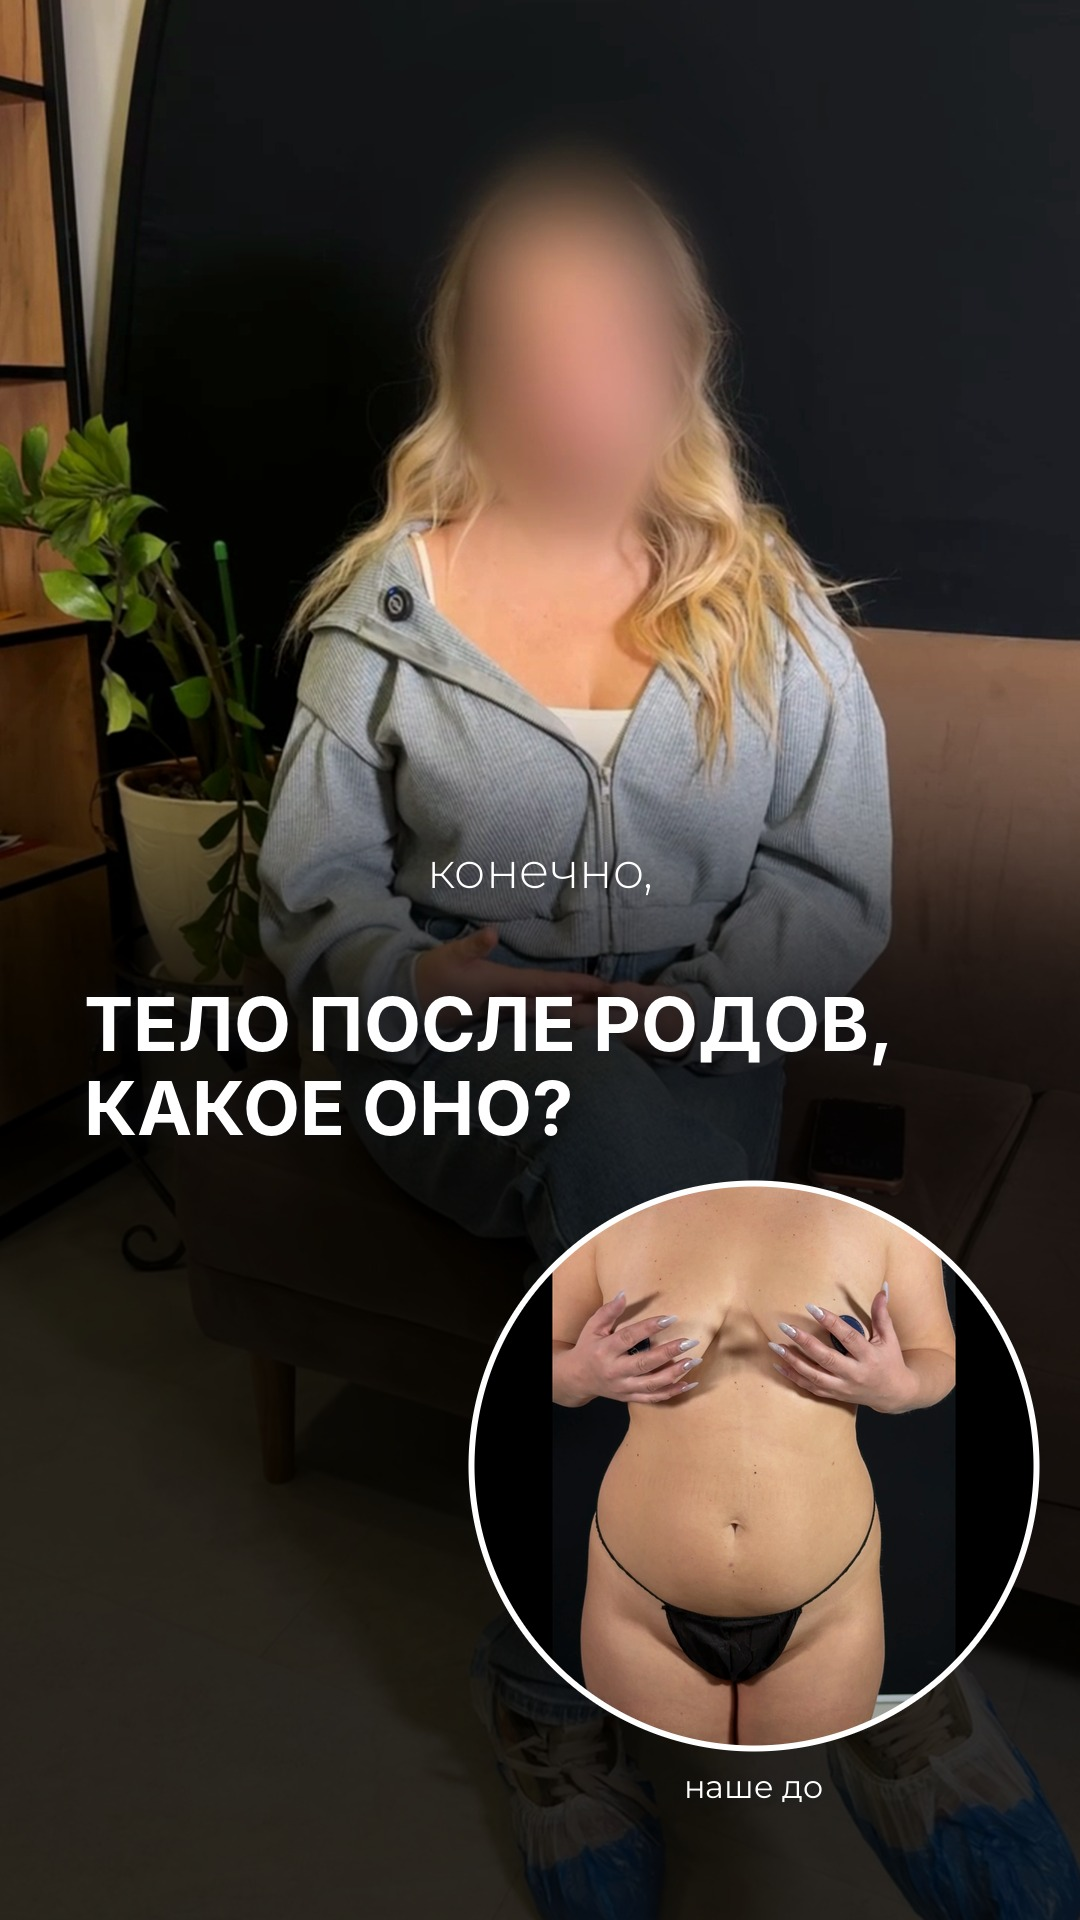
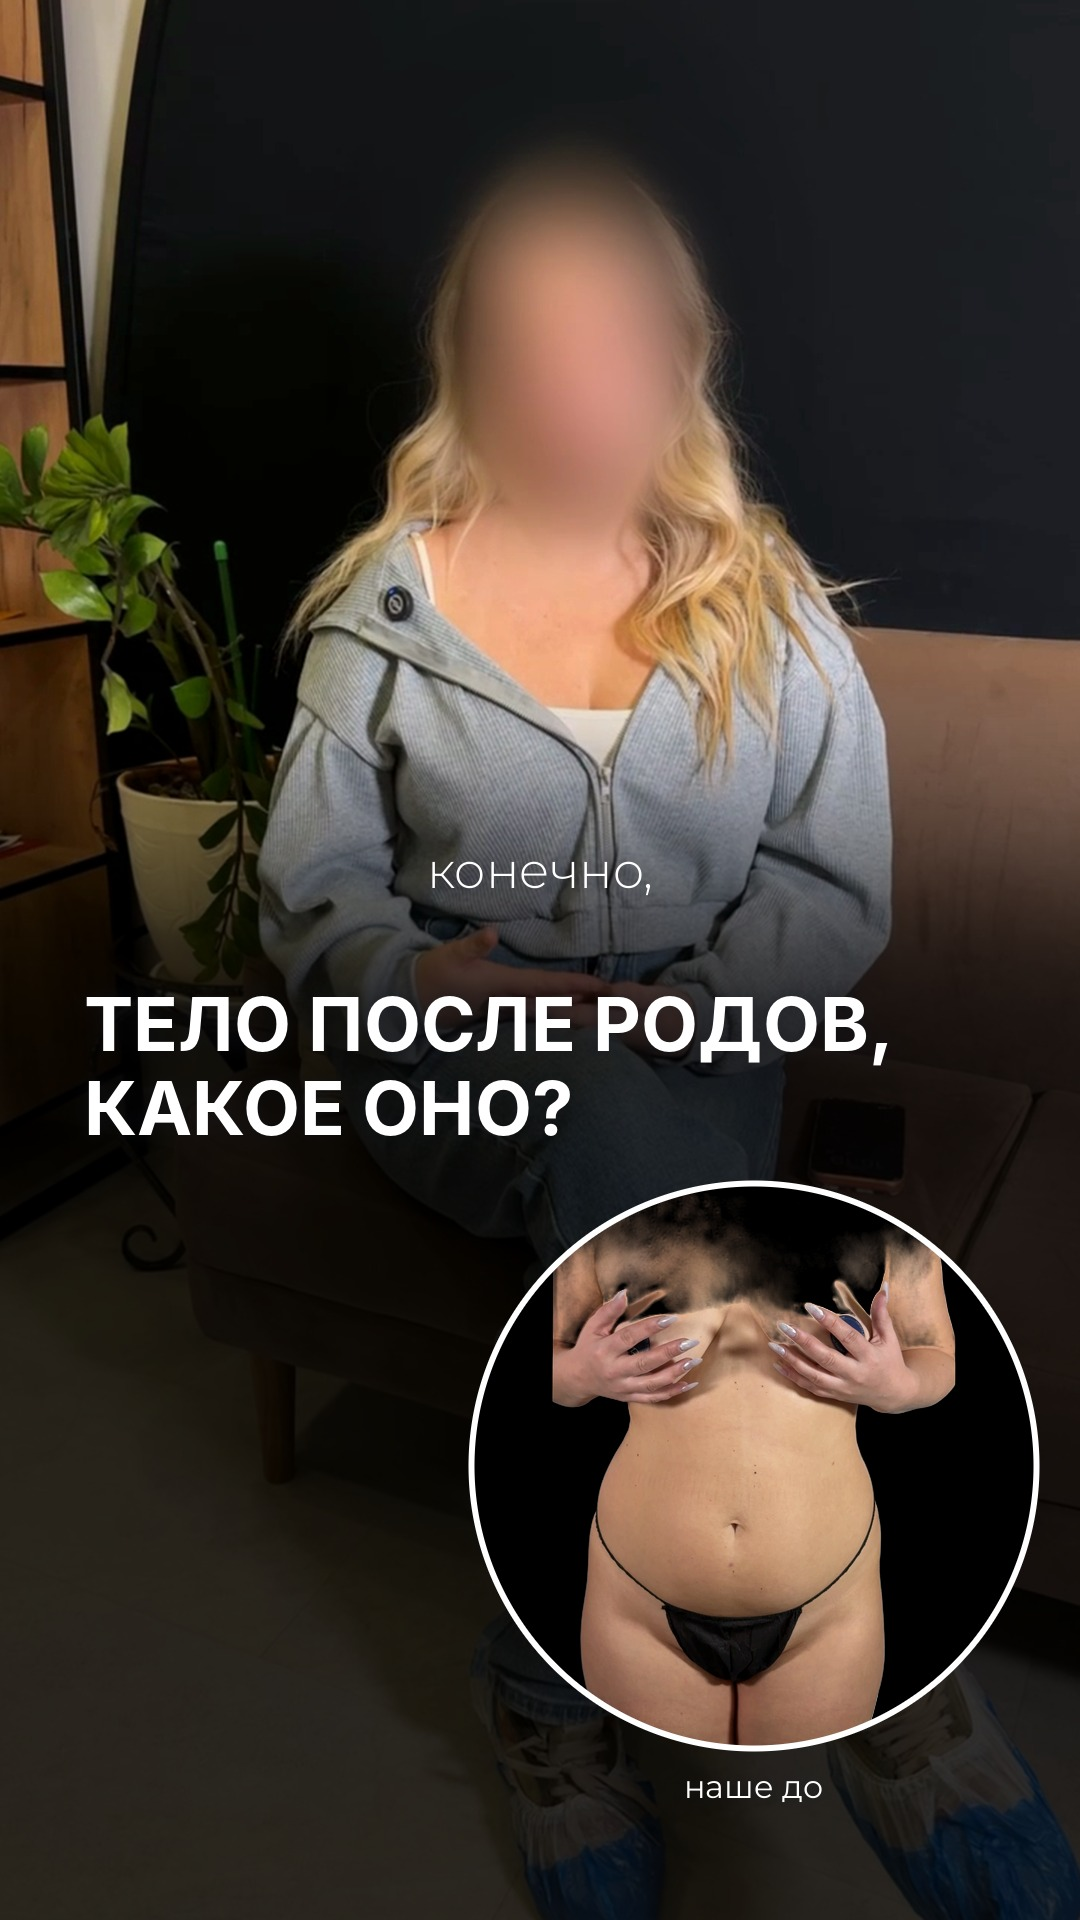
Interview stories: arrows start outside the labels, both ДО photos side by side, background-free circle, photo stories as JPG
Claude-Session: https://claude.ai/code/session_01DoBoRz2HUe4yvMBz6dWv4L

Changed region(s): [[0.4889, 0.5938, 0.8861, 0.7188], [0.7944, 0.875, 0.8556, 0.9062]]

diff --git a/tools/stories_implants_interview.py b/tools/stories_implants_interview.py
@@ -514,9 +514,22 @@ class VideoCircle:
                             "-vf", f"{vf},scale={d}:{d}:flags=lanczos,fps={FPS}", "-f", "rawvideo",
                             "-pix_fmt", "rgb24", "-"], capture_output=True, check=True).stdout
         self.frames = np.frombuffer(p, np.uint8).reshape(-1, d, d, 3)
+        if crop is None: self.frames = self.cut_bg(name, a, b, d)
         D = d + 2 * ring; yy, xx = np.mgrid[:D, :D]; r = np.hypot(xx - D / 2 + 0.5, yy - D / 2 + 0.5)
         self.ring_a = np.clip(D / 2 - r, 0, 1)[..., None].astype(np.float32)
         self.in_a = np.clip(d / 2 - np.hypot(xx[:d, :d] - d / 2 + 0.5, yy[:d, :d] - d / 2 + 0.5), 0, 1)[..., None].astype(np.float32)
+
+    def cut_bg(self, name, a, b, d):
+        """remove the backdrop from every frame (rembg isnet), body on pure black; cached next to the sources"""
+        cache = os.path.join(SRC, "cut", f"{name}_{a}_{b}_{d}.npy")
+        if os.path.exists(cache): return np.load(cache)
+        from rembg import remove, new_session
+        sess = new_session("isnet-general-use"); out = []
+        for f in self.frames:
+            m = np.asarray(remove(Image.fromarray(f), session=sess, only_mask=True), np.float32)[..., None] / 255
+            m = np.clip((m - 0.12) / 0.3, 0, 1)                   # arms/hands fully opaque, soft edge kept
+            out.append((f * m).astype(np.uint8))
+        out = np.stack(out); np.save(cache, out); return out
 
     def draw(self, fr, t):
         i = int(t * FPS) % len(self.frames)
@@ -576,6 +589,15 @@ def pill(im, text, cx, cy, size=23):
     im.alpha_composite(lay); return (x0, y0, x0 + w, y0 + h)
 
 
+def arrow_from(im, box, tgt, gap=7, **kw):
+    """short arrow that starts just outside a label box (never inside the text) and ends at the target"""
+    x0, y0, x1, y1 = box; tx, ty = tgt
+    cx, cy = min(max(tx, x0), x1), min(max(ty, y0), y1)          # nearest point of the box
+    if (cx, cy) == (tx, ty): return im
+    v = np.array([tx - cx, ty - cy], float); v /= np.linalg.norm(v)
+    return arrow_thin(im, (cx + v[0] * gap, cy + v[1] * gap), tgt, **kw)
+
+
 def black_fade(top, length=320, a=0.78):
     """light black darkening from `top` down to the bottom (stretched, no tint)"""
     return vgrad(top - length, top + 60, 0.0, a)
@@ -621,34 +643,30 @@ def s1():
 
 
 def before_cards():
-    """«наше до»: front (big, small white arrows to the problem zones, labels on the right) + profile (no arrows)"""
-    fw, fh = 520, 693
-    front = load_img("IMG_6325.heic").crop((158, 230, 158 + 1700, 230 + 2267)).resize((fw, fh), Image.LANCZOS)
-    prof = load_img("IMG_6340.heic").crop((259, 270, 259 + 1700, 270 + 2267)).resize((300, 400), Image.LANCZOS)
-    return card(front, fw, fh), card(prof, 300, 400)
+    """«наше до»: front and profile, same size, side by side"""
+    w, h = 490, 653
+    front = load_img("IMG_6325.heic").crop((158, 230, 158 + 1700, 230 + 2267)).resize((w, h), Image.LANCZOS)
+    prof = load_img("IMG_6340.heic").crop((259, 270, 259 + 1700, 270 + 2267)).resize((w, h), Image.LANCZOS)
+    return card(front, w, h), card(prof, w, h)
 
 
 def s2():
     front, prof = before_cards()
-    y = 1150; fx = 40
+    y = 1170; fx = 40
     lay = Image.new("RGBA", (W, H), (0, 0, 0, 0))
-    lay.alpha_composite(front, (fx, y)); lay.alpha_composite(prof, (W - 40 - prof.width, y + front.height - prof.height))
-    sc = 520 / 1700
+    lay.alpha_composite(front, (fx, y)); lay.alpha_composite(prof, (W - 40 - prof.width, y))
+    sc = 490 / 1700
     def P(sx, sy): return (fx + 4 + (sx - 158) * sc, y + 4 + (sy - 230) * sc)
-    # problems on the front view (source px of IMG_6325): empty upper pole, sagging, lost volume
-    probs = [(("пустой", "верхний полюс"), P(1400, 860)), (("опущение", "груди"), P(1470, 1265)), (("потеря объёма", "после ГВ"), P(1590, 1040))]
-    # short arrows, labels spread over different zones (pills sit right next to what they name)
-    for text, (cx, cy), p0, tgt in [("пустой верхний полюс", (300, y + 150), (330, y + 168), P(1380, 860)),
-                                    ("опущение груди", (175, y + 445), (185, y + 428), P(690, 1255)),
-                                    ("потеря объёма", (445, y + 420), (455, y + 402), P(1545, 1080))]:
-        pill(lay, text, cx, cy)
-        arrow_thin(lay, p0, tgt, width=3, head=12)
-    label_lines(lay, ["наше до"], fx + front.width // 2, y - 14, size=30, wght=400, anchor="ms")
+    for text, (cx, cy), tgt in [("пустой верхний полюс", (290, y + 118), P(1380, 870)),
+                                ("опущение груди", (175, y + 372), P(690, 1262)),
+                                ("потеря объёма", (425, y + 335), P(1545, 1090))]:
+        arrow_from(lay, pill(lay, text, cx, cy, size=22), tgt, width=3, head=11)
+    label_lines(lay, ["наше до"], W // 2, y - 14, size=30, wght=400, anchor="ms")
     items = [Sprite(lay.crop(lay.getbbox()), *lay.getbbox()[:2], 0, dy=0)]
     def extra(col):
         col.body("Должен внутри случиться импульс «я готова»", 0, size=36, wght=500, gap=0)
     interview(2, "dolgo_reshaetes", "int2.mp4", "КОГДА ВЫ ДОЛГО РЕШАЕТЕСЬ НА ОПЕРАЦИЮ, ЭТО НОРМАЛЬНО", extra,
-              bottom=1100, align="center", sub_y=780, more=items, head_size=48)
+              bottom=1110, align="center", sub_y=790, more=items, head_size=48)
 
 
 def s3():
@@ -715,11 +733,10 @@ def s6():
     a = np.asarray(bg, np.float32); k = np.clip((np.arange(H, dtype=np.float32) - 30) / 40, 0, 1)[:, None, None]
     bg = Image.fromarray((a * k).astype(np.uint8)).convert("RGBA")          # clean straight cut under the chin
     def P(x, y): return (x * s + ox, y * s + oy)
-    for text, (cx, cy), p0, tgt in [("наполненный верхний полюс", (450, 235), (455, 255), P(560, 640)),
-                                    ("увеличенный объём", (900, 640), (915, 620), P(1150, 860)),
-                                    ("округлая форма", (470, 720), (478, 700), P(590, 985))]:
-        pill(bg, text, cx, cy, size=24)
-        arrow_thin(bg, p0, tgt, width=3, head=12)
+    for text, (cx, cy), tgt in [("наполненный верхний полюс", (470, 268), P(560, 640)),
+                                ("увеличенный объём", (930, 585), P(1150, 860)),
+                                ("округлая форма", (470, 675), P(590, 985))]:
+        arrow_from(bg, pill(bg, text, cx, cy, size=24), tgt, width=3, head=11)
     col = Column(0, align="center")
     col.head("РЕЗУЛЬТАТ: 4,5 МЕСЯЦА ПОСЛЕ ОПЕРАЦИИ", 0, size=46, gap=10)
     col.body("увеличение груди имплантами", 0, size=34, wght=400, gap=0)
@@ -817,6 +834,13 @@ def s13():
     render(13, "chto_ostanavlivaet", 12.0, clip_bg(c), col.items, shade=black_fade(col.items[0].y + 30, 300, 0.7))
 
 
+PHOTO_ONLY = {6, 9, 10, 11}        # static stories are delivered as JPG, not video
+
+
 STORIES = {k + 1: f for k, f in enumerate([s1, s2, s3, s4, s5, s6, s7, s8, s9, s10, s11, s12, s13])}
 for k, fn in STORIES.items():
-    if not ONLY or k in ONLY: fn()
+    if not ONLY or k in ONLY:
+        fn()
+        if k in PHOTO_ONLY:
+            for f in os.listdir(OUT):
+                if f.startswith(f"{k:02d}_") and f.endswith(".mp4"): os.remove(os.path.join(OUT, f))

diff --git a/stories_implants_interview/README.md b/stories_implants_interview/README.md
@@ -1,13 +1,13 @@
 # Сторис: история пациентки — увеличение груди имплантами (4,5 месяца после)
 
-13 сторис 1080×1920. Рядом с каждым `.mp4` лежит `.jpg`-кадр.
+13 сторис 1080×1920. Видео-сторис — `.mp4` (рядом `.jpg`-кадр); сторис с фото (6, 9, 10, 11) — только `.jpg`.
 Рендер: `python3 tools/stories_implants_interview.py <папка с drive/ и asr/> stories_implants_interview [номера]`.
 Нарезки интервью с размытым лицом: `tools/face_blur_track.py` (отрезки — в начале скрипта).
 
 | № | Файл | Фон | Звук | Стикер в Instagram |
 |---|------|-----|------|--------------------|
-| 1 | 01_telo_posle_rodov | интервью + «наше до» (видео) в большом кружке справа внизу | голос + субтитры по слову | **Опрос** слева внизу: «У кого такие же изменения, как и у моей пациентки?» — Моя история.. / Частично про меня |
-| 2 | 02_dolgo_reshaetes | интервью + «наше до» прямо (тонкие белые стрелки и подписи проблем) и боком | голос + субтитры | — |
+| 1 | 01_telo_posle_rodov | интервью + «наше до» (видео без фона) в большом кружке справа внизу | голос + субтитры по слову | **Опрос** слева внизу: «У кого такие же изменения, как и у моей пациентки?» — Моя история.. / Частично про меня |
+| 2 | 02_dolgo_reshaetes | интервью + «наше до» прямо и боком рядом, одинакового размера; на виде спереди короткие стрелки с подписями | голос + субтитры | — |
 | 3 | 03_strashno | интервью | голос + субтитры | — |
 | 4 | 04_delyatsya_istoriey | интервью | голос + субтитры | — |
 | 5 | 05_do_posle_perehod | фото ДО → плавный переход → фото ПОСЛЕ (анфас) | нет | — |
